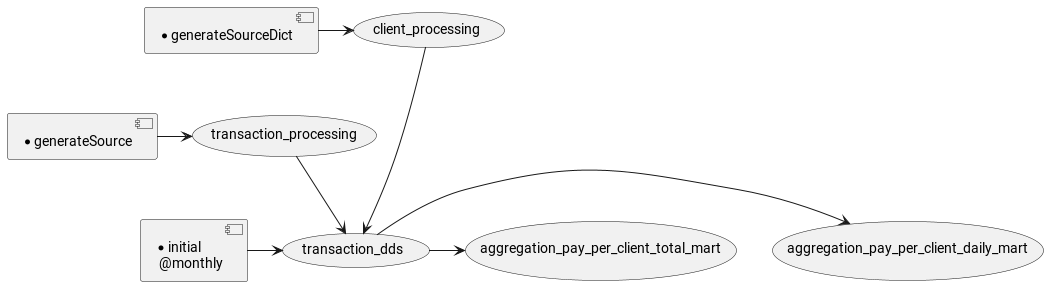
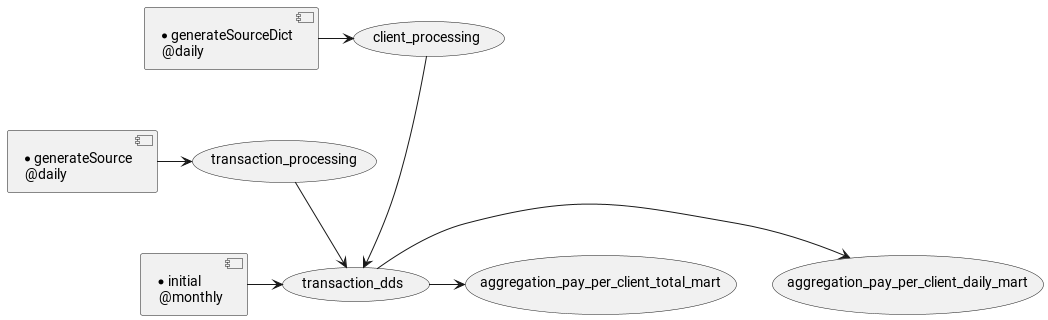
Docs for demo scenario

diff --git a/demo/README.md b/demo/README.md
@@ -80,6 +80,9 @@ docker container rm scheduler-svc
   - [state-exe](conf/taskexecutionservicegroups/state-exe.json) для работы с задачами "состояний" 1 экземпляр
   - [default](conf/taskexecutionservicegroups/default.json) обрабатывает задачи с данными 2 конкурирующих экземпляра
 
+Источники собираются каждый день, трансформации тоже каждый день
 ![regular.png](uml/regular.png)
 
+
+Источники собираются каждый день, трансформации каждый месяц
 ![initial.png](uml/initial.png)
